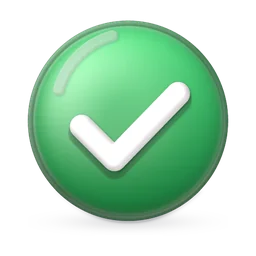
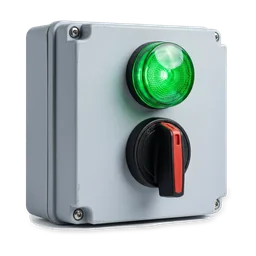
Metrología 8.17.5: íconos fotorrealistas del pedido 2, lote 9 (7 nuevos y correcciones de k_dias y k_falla)

diff --git a/index.html b/index.html
@@ -19,7 +19,7 @@
 
   <!-- Rutas relativas: la app también se sirve en /metrologia/ dentro del Portal Pet's Table -->
   <link rel="apple-touch-icon" sizes="180x180" href="apple-touch-icon.png?v=21">
-  <meta http-equiv="Content-Security-Policy" content="default-src 'self'; script-src 'self' https://cdn.jsdelivr.net 'sha256-lzPcFyYIS7av1YAhNWYUOF3WBxHlvObTNGr4PGUKEmE=' 'sha256-e2ByR9mYHiEyutT2Ry8HrDmzurvCBLwPRm87cugWMV0=' 'sha256-3jRbhaWk0hxJl2Np+yRsJFhYc76lgEtzsPju+YmEvMw='; style-src 'self' 'unsafe-inline' https://fonts.googleapis.com; font-src https://fonts.gstatic.com; img-src 'self' data: blob: https://portal-petstable.vercel.app https://domumnsezocubigfqwry.supabase.co; connect-src 'self' https://domumnsezocubigfqwry.supabase.co wss://domumnsezocubigfqwry.supabase.co; manifest-src 'self'; worker-src 'self'; base-uri 'self'; form-action 'self'; object-src 'none'">
+  <meta http-equiv="Content-Security-Policy" content="default-src 'self'; script-src 'self' https://cdn.jsdelivr.net 'sha256-lzPcFyYIS7av1YAhNWYUOF3WBxHlvObTNGr4PGUKEmE=' 'sha256-3TdSxOfoTy0bdhMmw19scBDFgKQ7B0AiDfAutbddEcE=' 'sha256-AKE09g5hDBmuibIbQRIP/Uvk/W/J9mNgdudTxo49CAo='; style-src 'self' 'unsafe-inline' https://fonts.googleapis.com; font-src https://fonts.gstatic.com; img-src 'self' data: blob: https://portal-petstable.vercel.app https://domumnsezocubigfqwry.supabase.co; connect-src 'self' https://domumnsezocubigfqwry.supabase.co wss://domumnsezocubigfqwry.supabase.co; manifest-src 'self'; worker-src 'self'; base-uri 'self'; form-action 'self'; object-src 'none'">
[1 lines of base64/hex data omitted]
   <link rel="manifest" href="manifest.webmanifest">
 
@@ -2722,7 +2722,7 @@ html:not(.en-portal) .portal-btn { display: none !important; }
 window.CALBAS_CONFIG = {
   SUPABASE_URL: "https://domumnsezocubigfqwry.supabase.co",
   SUPABASE_ANON_KEY: "sb_publishable_CDb37asQiekme1SuDnIANw_csZ5ZNRh",
-  APP_VERSION: "8.17.4"
+  APP_VERSION: "8.17.5"
 };</script>
   <script>(function () {
 'use strict';
@@ -3021,7 +3021,7 @@ const ICONOS_3D = new Set([ // Paquete de imágenes realistas (v1, 45 imágenes)
   'n_panel', 'n_patrones', 'n_perfil', 'n_usuarios', 'n_verificar', 'no_cumple', 'patron_ref', 'personas', 
   'por_verificar', 'potenciometro', 'reloj', 'sin_uso', 'tableta', 'termometro',
 ]);
-const ICO3D_VER = '6';
+const ICO3D_VER = '7';
 function con3d(n) { return !!n && ICONOS_3D.has(n); }
 document.addEventListener('error', (e) => {
   const img = e.target;

diff --git a/public/js/config.js b/public/js/config.js
@@ -7,5 +7,5 @@
 window.CALBAS_CONFIG = {
   SUPABASE_URL: "https://domumnsezocubigfqwry.supabase.co",
   SUPABASE_ANON_KEY: "sb_publishable_CDb37asQiekme1SuDnIANw_csZ5ZNRh",
-  APP_VERSION: "8.17.4"
+  APP_VERSION: "8.17.5"
 };
